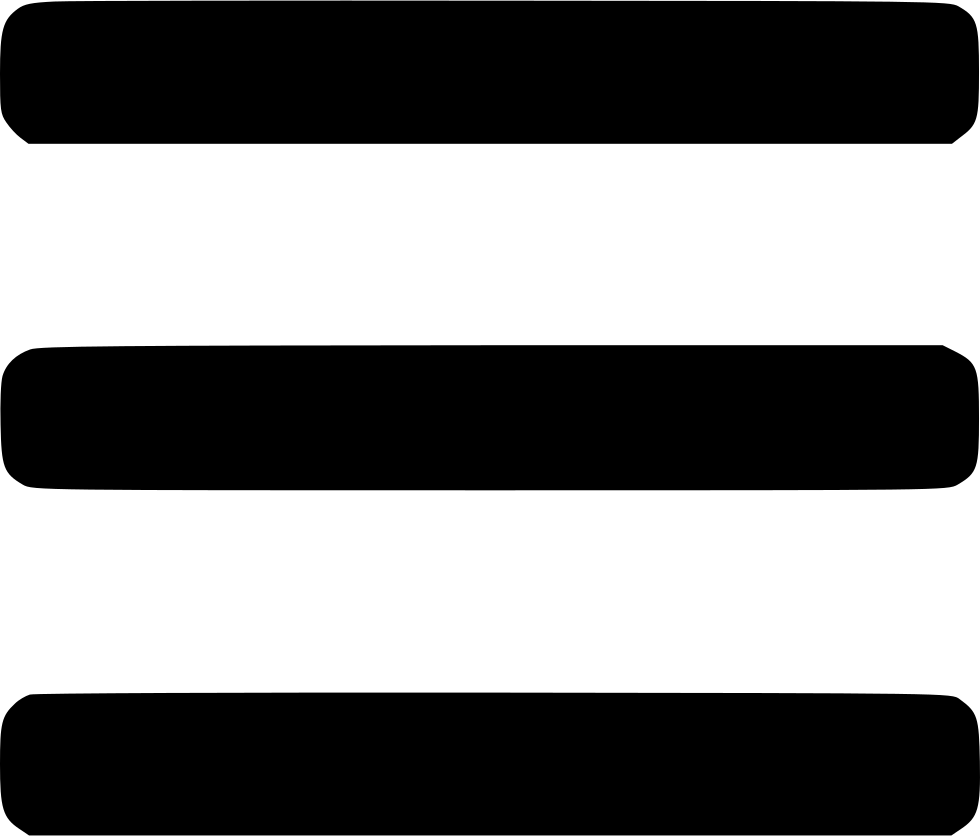
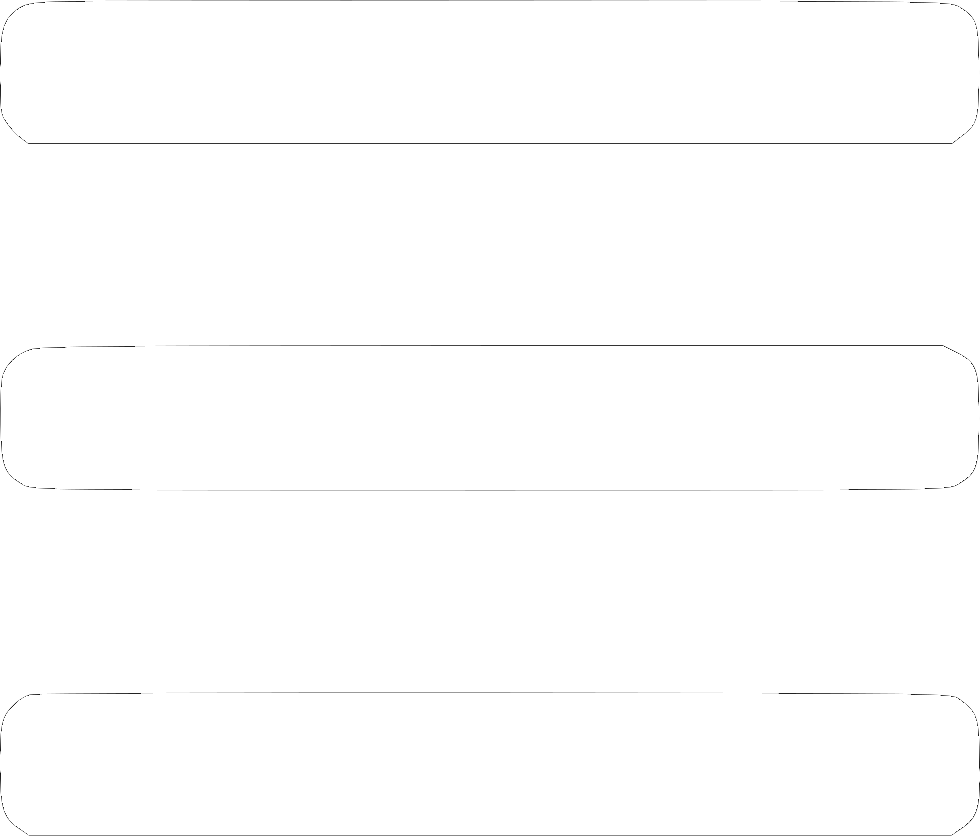
fixed z index issues

diff --git a/index.html b/index.html
@@ -18,8 +18,8 @@
         <div id="navbar" class="hidden">
             <a class="jumper" href="#about-me">About Me</a>
             <a class="jumper" href="#portfolio">Portfolio</a>
-            <a href="https://github.com/KevinPMoore">Github</a>
-            <a href="https://www.linkedin.com/in/kevin-moore-8b972933/">LinkedIn</a>
+            <a href="https://github.com/KevinPMoore" target="_blank">Github</a>
+            <a href="https://www.linkedin.com/in/kevin-moore-8b972933/" target="_blank">LinkedIn</a>
             <a class="jumper" href="#contact">Contact Me</a>
         </div>
     </nav>  
@@ -34,12 +34,17 @@
             <p>Hi, Im Kevin.  I’m a fullstack web developer based out of Atlanta, GA.  Trying to understand how things work has always fascinated me.  
                     That fascination has driven me from a kid who spent countless hours playing with LEGOs to graduate studies in 
                     psychology and clinical social work.  I always found myself spending much of my free time at my computer despite 
-                    knowing very little about how it worked.  In a past life I worked to help people understand how they work in the context of their 
-                    own lives as an individual and family therapist.  That line of work taught me two important things.  The first was to never 
+                    knowing very little about how it worked.</p>
+            
+            <p>In a past life I worked as an individual and family therapist to help people understand 
+                    how they function in the context of their own lives.  That line of work taught me two important lessons.  The first was to never 
                     underestimate the value of taking a collaborative approach to solving problems.  Second was the power of perception and how 
-                    dramatically that impacts what we (think) we can and can't do.  Now I tackle projects that use technology to help people thrive 
-                    and engage with the world in ways that empower them to do things they may not have tried before.  Seeing a project come together 
-                    always feels like magic to me.  You can check out some of my work below.</p>
+                    dramatically that impacts what we (think) we can and can't do.</p>  
+
+            <p>Now I tackle projects that use technology to help people thrive and engage with the world in ways that empower them to do things they 
+                    may not have tried before.  While I enjoy working independantly, I thrive in a team environment.  My belief is that collaborative 
+                    work fosters the development of everyone involved and improves the final result.  Seeing a project come together always feels  a 
+                    little bit like magic to me.  You can check out some of my work below.</p>
         </section>
         <section class="portfolio" id="portfolio">
             <h2>Portfolio</h2>

diff --git a/src/main.css b/src/main.css
@@ -1,5 +1,7 @@
 * {
     box-sizing: border-box;
+    margin: 0;
+    padding: 0;
 }
 
 body {
@@ -49,11 +51,15 @@ a {
     1px -1px 0 #000,
     -1px 1px 0 #000,
     1px 1px 0 #000;
+    font-size: 1.2rem;
 }
 
 button.navbar-toggle {
-    margin: 1%;
-    width: 3%;
+    margin: 2px;
+    width: 6%;
+    height: auto;
+    background: url(../images/burger-icon.png);
+    background-size: auto;
 }
 
 header {
@@ -75,13 +81,15 @@ header img {
 h1 {
     visibility: hidden;
     position: absolute;
-    left: 2px;
+    left: 10px;
     top: 1px;
+    z-index: -1;
 }
 
 header h2 {
     position: absolute;
     bottom: 0;
+    z-index: -1;
 }
 
 main {
@@ -179,7 +187,7 @@ footer {
     h1 {
         visibility: visible;
         position: absolute;
-        left: 2px;
+        left: 20px;
         top: 1px;
     }
 
@@ -196,10 +204,14 @@ footer {
     }
 }
 
+a {
+    font-size: 1.3rem;
+}
+
 @media screen and (min-width: 1280px) {
     header h2 {
         position: absolute;
-        left: 2px;
+        left: 20px;
         top: 60px;
     }
 }
@@ -210,4 +222,16 @@ header img {
     min-width: auto;
     min-height: 300px;
     z-index: -1;
+}
+
+p {
+    font-size: 1.2rem;
+}
+
+section.about-me p {
+    font-size: 1.5rem;
+}
+
+a {
+    font-size: 1.4rem;
 }
